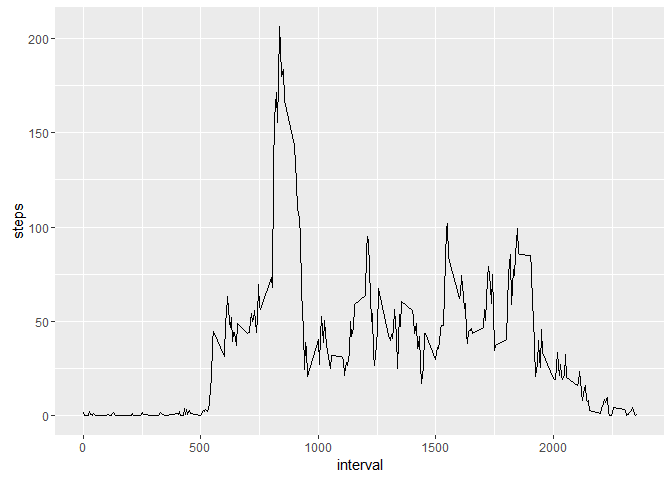
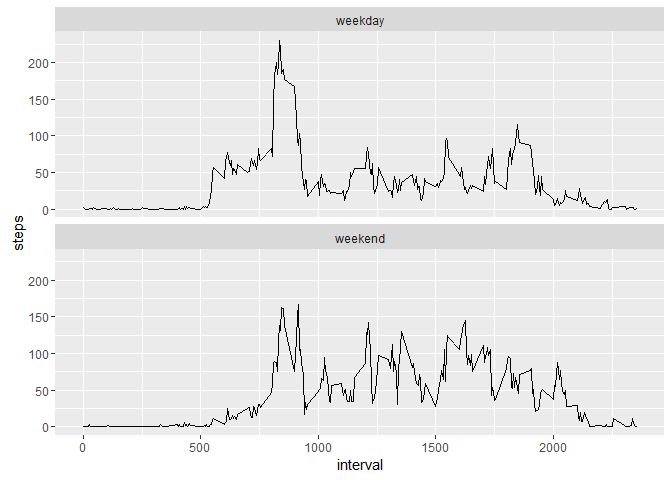
Changes for Resubmitting the Project

diff --git a/PA1_template.html b/PA1_template.html
@@ -66,18 +66,30 @@ img {
 
 <div id="loading-and-preprocessing-the-data" class="section level2">
 <h2>Loading and preprocessing the data</h2>
-<pre class="r"><code># Check if file unzipped before
-if(!file.exists('activity.csv')) {
+<div id="check-if-file-unzipped-before" class="section level5">
+<h5>1. Check if file unzipped before</h5>
+</div>
+<div id="unzip-the-data-set-file-if-not-exists" class="section level5">
+<h5>2. Unzip the data set file if not exists</h5>
+</div>
+<div id="read-the-csv-file-into-a-data-frame" class="section level5">
+<h5>3. Read the csv file into a data frame</h5>
+<pre class="r"><code>if(!file.exists('activity.csv')) {
   
-  #Unzip the data set file
   unzip('activity.zip')
 }
 
 # Load the csv to a data frame
 data &lt;- read.csv(&quot;activity.csv&quot;, sep=&quot;,&quot;, colClasses = &quot;character&quot;)</code></pre>
 </div>
+</div>
 <div id="what-is-mean-total-number-of-steps-taken-per-day" class="section level2">
 <h2>What is mean total number of steps taken per day?</h2>
+<div id="changing-data-types-of-steps-from-character-to-numeric-and-date-from-character-to-date" class="section level5">
+<h5>1. Changing data types of steps from character to numeric and date from character to date</h5>
+</div>
+<div id="calculating-the-mean-and-median-of-steps-for-each-day" class="section level5">
+<h5>2. Calculating the mean and median of steps for each day</h5>
 <pre class="r"><code># Convert steps to numeric
 data$steps &lt;- as.numeric(data$steps)
 
@@ -90,6 +102,7 @@ data2 &lt;- aggregate(steps ~ date, data, sum)
 # Calculating Total Mean and Median
 dataMean &lt;- mean(data2[,&quot;steps&quot;])
 dataMedian &lt;- median(data2[,&quot;steps&quot;])</code></pre>
+</div>
 <div id="the-histogram-of-total-number-of-steps-taken-each-day" class="section level4">
 <h4>The Histogram of “Total number of steps taken each day”</h4>
 <pre class="r"><code>library(ggplot2)
@@ -105,12 +118,21 @@ qplot(data2$steps, geom=&quot;histogram&quot;, main=&quot;Total number of steps 
 </div>
 <div id="what-is-the-average-daily-activity-pattern" class="section level2">
 <h2>What is the average daily activity pattern?</h2>
+<div id="change-data-type-of-interval-to-numeric" class="section level5">
+<h5>1. Change data type of interval to numeric</h5>
+</div>
+<div id="group-steps-by-interval-and-summarize-by-mean" class="section level5">
+<h5>2. Group steps by interval, and summarize by mean</h5>
+</div>
+<div id="plot-a-histogram-of-average-steps-per-interval" class="section level5">
+<h5>3. Plot a histogram of average steps per interval</h5>
 <pre class="r"><code>data$interval &lt;- as.numeric(data$interval)
 dataAverages &lt;- aggregate(steps ~ interval, data, mean, na.rm=TRUE)
 ggplot(dataAverages, aes(interval, steps)) + geom_line()</code></pre>
[1 lines of base64/hex data omitted]
-<pre class="r"><code>row &lt;- dataAverages[which(dataAverages$steps == max(dataAverages$steps, na.rm=TRUE)),]
-maxAverageInterval &lt;- row$interval</code></pre>
+<pre class="r"><code>  row &lt;- dataAverages[which(dataAverages$steps == max(dataAverages$steps, na.rm=TRUE)),]
+  maxAverageInterval &lt;- row$interval</code></pre>
+</div>
 <div id="the-time-interval-that-contains-the-maximum-number-of-steps-835" class="section level4">
 <h4>The time interval that contains the maximum number of steps: 835</h4>
 </div>
@@ -119,10 +141,15 @@ maxAverageInterval &lt;- row$interval</code></pre>
 <h2>Imputing missing values</h2>
 <div id="calculating-the-total-number-of-missing-values-in-the-dataset" class="section level3">
 <h3>Calculating the total number of missing values in the dataset</h3>
-<pre class="r"><code>naData &lt;- subset(data, is.na(data$steps)|is.na(data$interval))
-naDataCount &lt;- nrow(naData)</code></pre>
+<pre class="r"><code>  naData &lt;- subset(data, is.na(data$steps)|is.na(data$interval))
+  naDataCount &lt;- nrow(naData)</code></pre>
 <div id="the-total-number-of-missing-values-in-the-dataset-2304" class="section level4">
 <h4>The total number of missing values in the dataset: 2304</h4>
+<div id="group-data-by-interval-and-summarize-steps-by-mean" class="section level5">
+<h5>1. Group data by interval and summarize steps by mean</h5>
+</div>
+<div id="for-each-step-in-data-if-step-is-na-get-the-mean-of-steps-of-the-same-interval" class="section level5">
+<h5>2. For each step in data, if step is na, get the mean of steps of the same interval</h5>
 <pre class="r"><code>dataImputted &lt;- data
 
 dataImputted$interval &lt;- as.numeric(dataImputted$interval)
@@ -146,17 +173,52 @@ dataImputted$steps &lt;- apply(dataImputted, 1, function(x)
   
     as.numeric(x[&quot;steps&quot;])
         
-    })</code></pre>
+    })
+
+dataImputtedAggregated &lt;- aggregate(steps ~ date, dataImputted, mean, rm.na=TRUE)</code></pre>
+</div>
 </div>
 <div id="histogram-of-the-total-number-of-steps-taken-each-day-after-data-are-imputted" class="section level4">
 <h4>Histogram of the total number of steps taken each day after data are imputted:</h4>
-<pre class="r"><code> qplot(dataImputted$steps, geom=&quot;histogram&quot;, main=&quot;Total number of steps taken each day&quot;, binwidth=20, xlab=&quot;Steps&quot;, fill=I(&quot;blue&quot;), col=I(&quot;red&quot;), alpha=I(.2))</code></pre>
[1 lines of base64/hex data omitted]
+<pre class="r"><code>qplot(dataImputtedAggregated$steps, geom=&quot;histogram&quot;, main=&quot;Total number of steps taken each day&quot;, binwidth=20, xlab=&quot;Steps&quot;, fill=I(&quot;blue&quot;), col=I(&quot;red&quot;), alpha=I(.2))</code></pre>
[1 lines of base64/hex data omitted]
 </div>
 </div>
 </div>
 <div id="are-there-differences-in-activity-patterns-between-weekdays-and-weekends" class="section level2">
 <h2>Are there differences in activity patterns between weekdays and weekends?</h2>
+<div id="using-imputed-data" class="section level5">
+<h5>1. Using Imputed data</h5>
+</div>
+<div id="convert-date-column-to-data-data-type" class="section level5">
+<h5>2. Convert date column to data data type</h5>
+</div>
+<div id="use-function-weekdays-to-know-day-names-of-date" class="section level5">
+<h5>3. Use function weekdays() to know day names of date</h5>
+</div>
+<div id="add-new-column-to-specifiy-if-day-is-weekend-or-not" class="section level5">
+<h5>4. Add new column to specifiy if day is weekend or not</h5>
+<pre class="r"><code>  # library(dplyr, quietly = TRUE)
+
+  dataWithWeekDays &lt;- dataImputted
+
+  dataWithWeekDays$date &lt;- as.Date(dataWithWeekDays$date)
+
+  dataWithWeekDays$weekDays &lt;- weekdays(dataWithWeekDays$date)
+  
+  
+  dataWithWeekDays$dayType &lt;- as.factor(with(dataWithWeekDays, ifelse(weekDays == 'Sunday', 'weekend', ifelse(weekDays == 'Saturday', 'weekend', 'weekday'))))
+  
+  # print(dataWithWeekDays)
+  
+  # dataWithWeekDaysAggregated &lt;- dataWithWeekDays %&gt;% group_by(interval) %&gt;% summarise(steps=mean(steps, rm.na=TRUE))
+  
+  dataWithWeekDaysAggregated &lt;- aggregate(steps ~ interval+dayType, dataWithWeekDays, mean, rm.nam=TRUE)
+  # print(dataWithWeekDaysAggregated)
+  
+   ggplot(dataWithWeekDaysAggregated, aes(interval, steps)) + geom_line(linetype=1) + facet_wrap(~dayType, ncol=1)</code></pre>
[1 lines of base64/hex data omitted]
+</div>
 </div>
 
 

diff --git a/PA1_template.md b/PA1_template.md
@@ -3,11 +3,14 @@
 
 ## Loading and preprocessing the data
 
+##### 1. Check if file unzipped before
+##### 2. Unzip the data set file if not exists
+##### 3. Read the csv file into a data frame
+
+
 ```r
-# Check if file unzipped before
 if(!file.exists('activity.csv')) {
   
-  #Unzip the data set file
   unzip('activity.zip')
 }
 
@@ -17,6 +20,10 @@ data <- read.csv("activity.csv", sep=",", colClasses = "character")
 
 
 ## What is mean total number of steps taken per day?
+
+##### 1. Changing data types of steps from character to numeric and date from character to date
+##### 2. Calculating the mean and median of steps for each day
+
 
 ```r
 # Convert steps to numeric
@@ -35,6 +42,7 @@ dataMedian <- median(data2[,"steps"])
 
 #### The Histogram of "Total number of steps taken each day"
 
+
 ```r
 library(ggplot2)
 qplot(data2$steps, geom="histogram", main="Total number of steps taken each day", binwidth=1000, xlab="Steps", fill=I("blue"), col=I("red"), alpha=I(.2))
@@ -48,6 +56,10 @@ qplot(data2$steps, geom="histogram", main="Total number of steps taken each day"
 
 ## What is the average daily activity pattern?
 
+##### 1. Change data type of interval to numeric
+##### 2. Group steps by interval, and summarize by mean
+##### 3. Plot a histogram of average steps per interval
+
 
 ```r
 data$interval <- as.numeric(data$interval)
@@ -59,8 +71,8 @@ ggplot(dataAverages, aes(interval, steps)) + geom_line()
 
 
 ```r
-row <- dataAverages[which(dataAverages$steps == max(dataAverages$steps, na.rm=TRUE)),]
-maxAverageInterval <- row$interval
+  row <- dataAverages[which(dataAverages$steps == max(dataAverages$steps, na.rm=TRUE)),]
+  maxAverageInterval <- row$interval
 ```
 #### The time interval that contains the maximum number of steps: 835
 
@@ -69,11 +81,14 @@ maxAverageInterval <- row$interval
 ### Calculating the total number of missing values in the dataset
 
 ```r
-naData <- subset(data, is.na(data$steps)|is.na(data$interval))
-naDataCount <- nrow(naData)
+  naData <- subset(data, is.na(data$steps)|is.na(data$interval))
+  naDataCount <- nrow(naData)
 ```
 
 #### The total number of missing values in the dataset: 2304
+
+##### 1. Group data by interval and summarize steps by mean
+##### 2. For each step in data, if step is na, get the mean of steps of the same interval
 
 
 ```r
@@ -101,16 +116,49 @@ dataImputted$steps <- apply(dataImputted, 1, function(x)
     as.numeric(x["steps"])
 		
 	})
+
+dataImputtedAggregated <- aggregate(steps ~ date, dataImputted, mean, rm.na=TRUE)
 ```
 
 #### Histogram of the total number of steps taken each day after data are imputted:
 
 
 ```r
- qplot(dataImputted$steps, geom="histogram", main="Total number of steps taken each day", binwidth=20, xlab="Steps", fill=I("blue"), col=I("red"), alpha=I(.2))
+qplot(dataImputtedAggregated$steps, geom="histogram", main="Total number of steps taken each day", binwidth=20, xlab="Steps", fill=I("blue"), col=I("red"), alpha=I(.2))
 ```
 
 ![](PA1_template_files/figure-html/unnamed-chunk-8-1.png)
 
 
 ## Are there differences in activity patterns between weekdays and weekends?
+
+##### 1. Using Imputed data
+##### 2. Convert date column to data data type
+##### 3. Use function weekdays() to know day names of date
+##### 4. Add new column to specifiy if day is weekend or not
+
+
+
+```r
+  # library(dplyr, quietly = TRUE)
+
+  dataWithWeekDays <- dataImputted
+
+  dataWithWeekDays$date <- as.Date(dataWithWeekDays$date)
+
+  dataWithWeekDays$weekDays <- weekdays(dataWithWeekDays$date)
+  
+  
+  dataWithWeekDays$dayType <- as.factor(with(dataWithWeekDays, ifelse(weekDays == 'Sunday', 'weekend', ifelse(weekDays == 'Saturday', 'weekend', 'weekday'))))
+  
+  # print(dataWithWeekDays)
+  
+  # dataWithWeekDaysAggregated <- dataWithWeekDays %>% group_by(interval) %>% summarise(steps=mean(steps, rm.na=TRUE))
+  
+  dataWithWeekDaysAggregated <- aggregate(steps ~ interval+dayType, dataWithWeekDays, mean, rm.nam=TRUE)
+  # print(dataWithWeekDaysAggregated)
+  
+   ggplot(dataWithWeekDaysAggregated, aes(interval, steps)) + geom_line(linetype=1) + facet_wrap(~dayType, ncol=1)
+```
+
+![](PA1_template_files/figure-html/unnamed-chunk-9-1.png)
